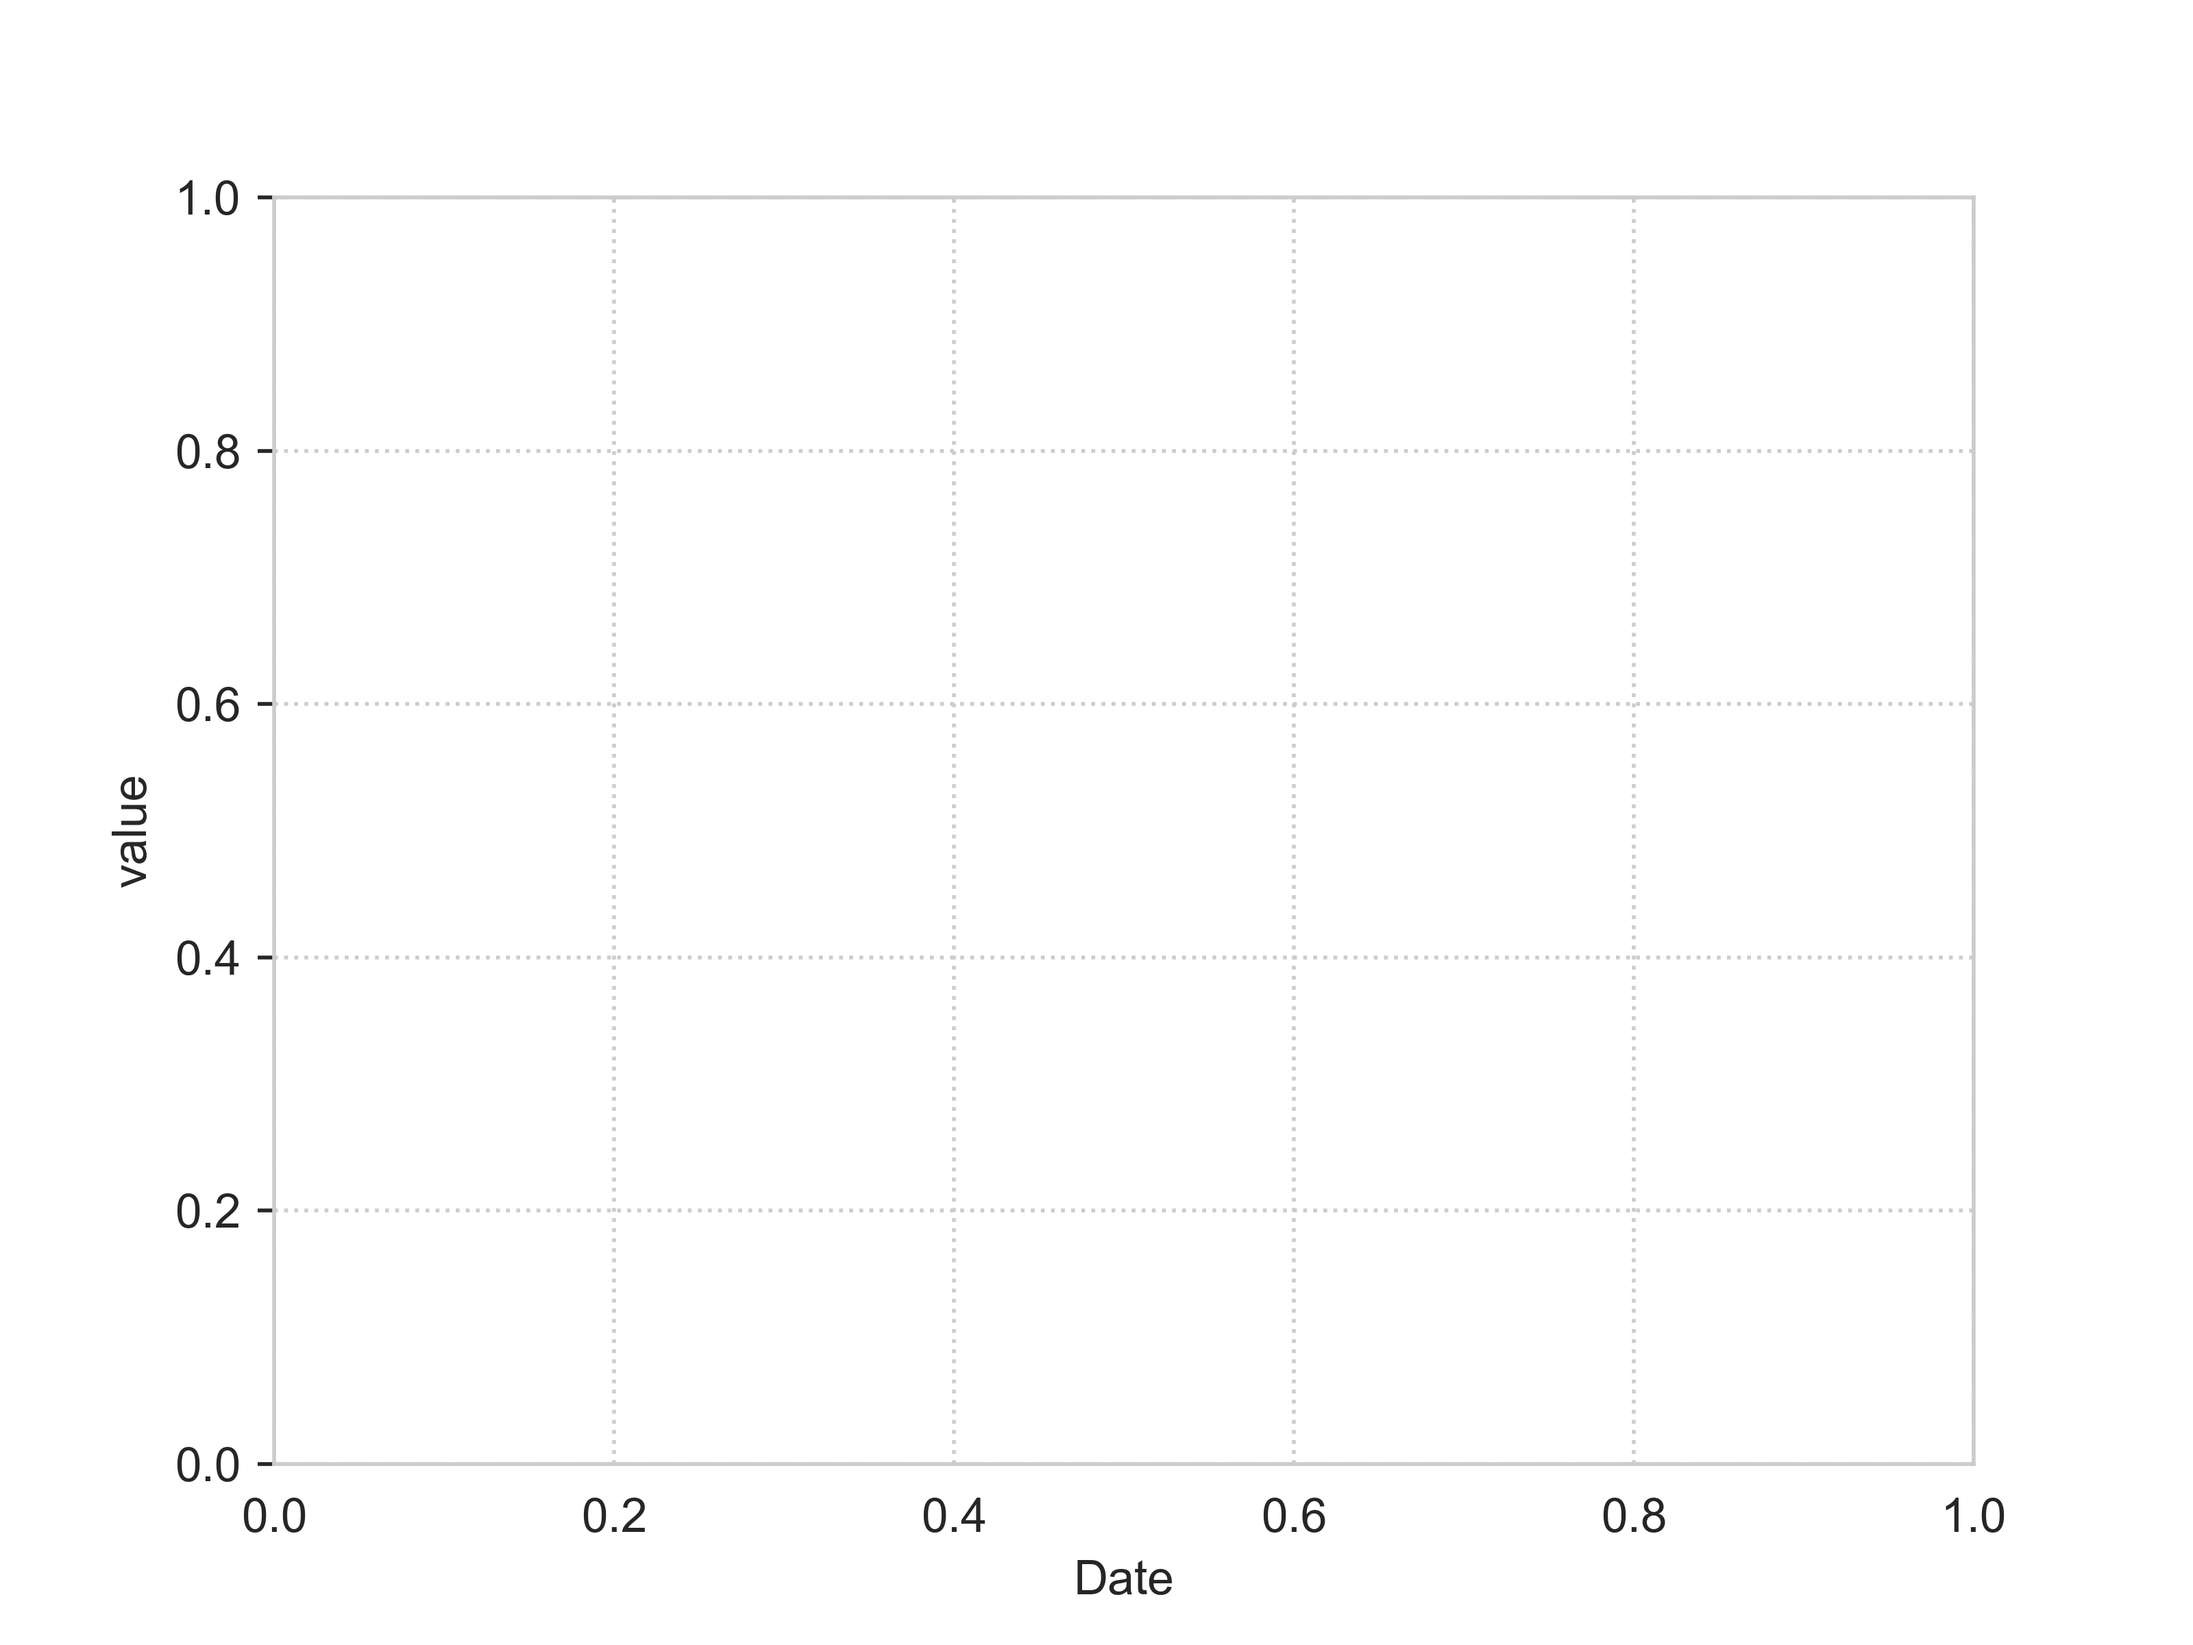
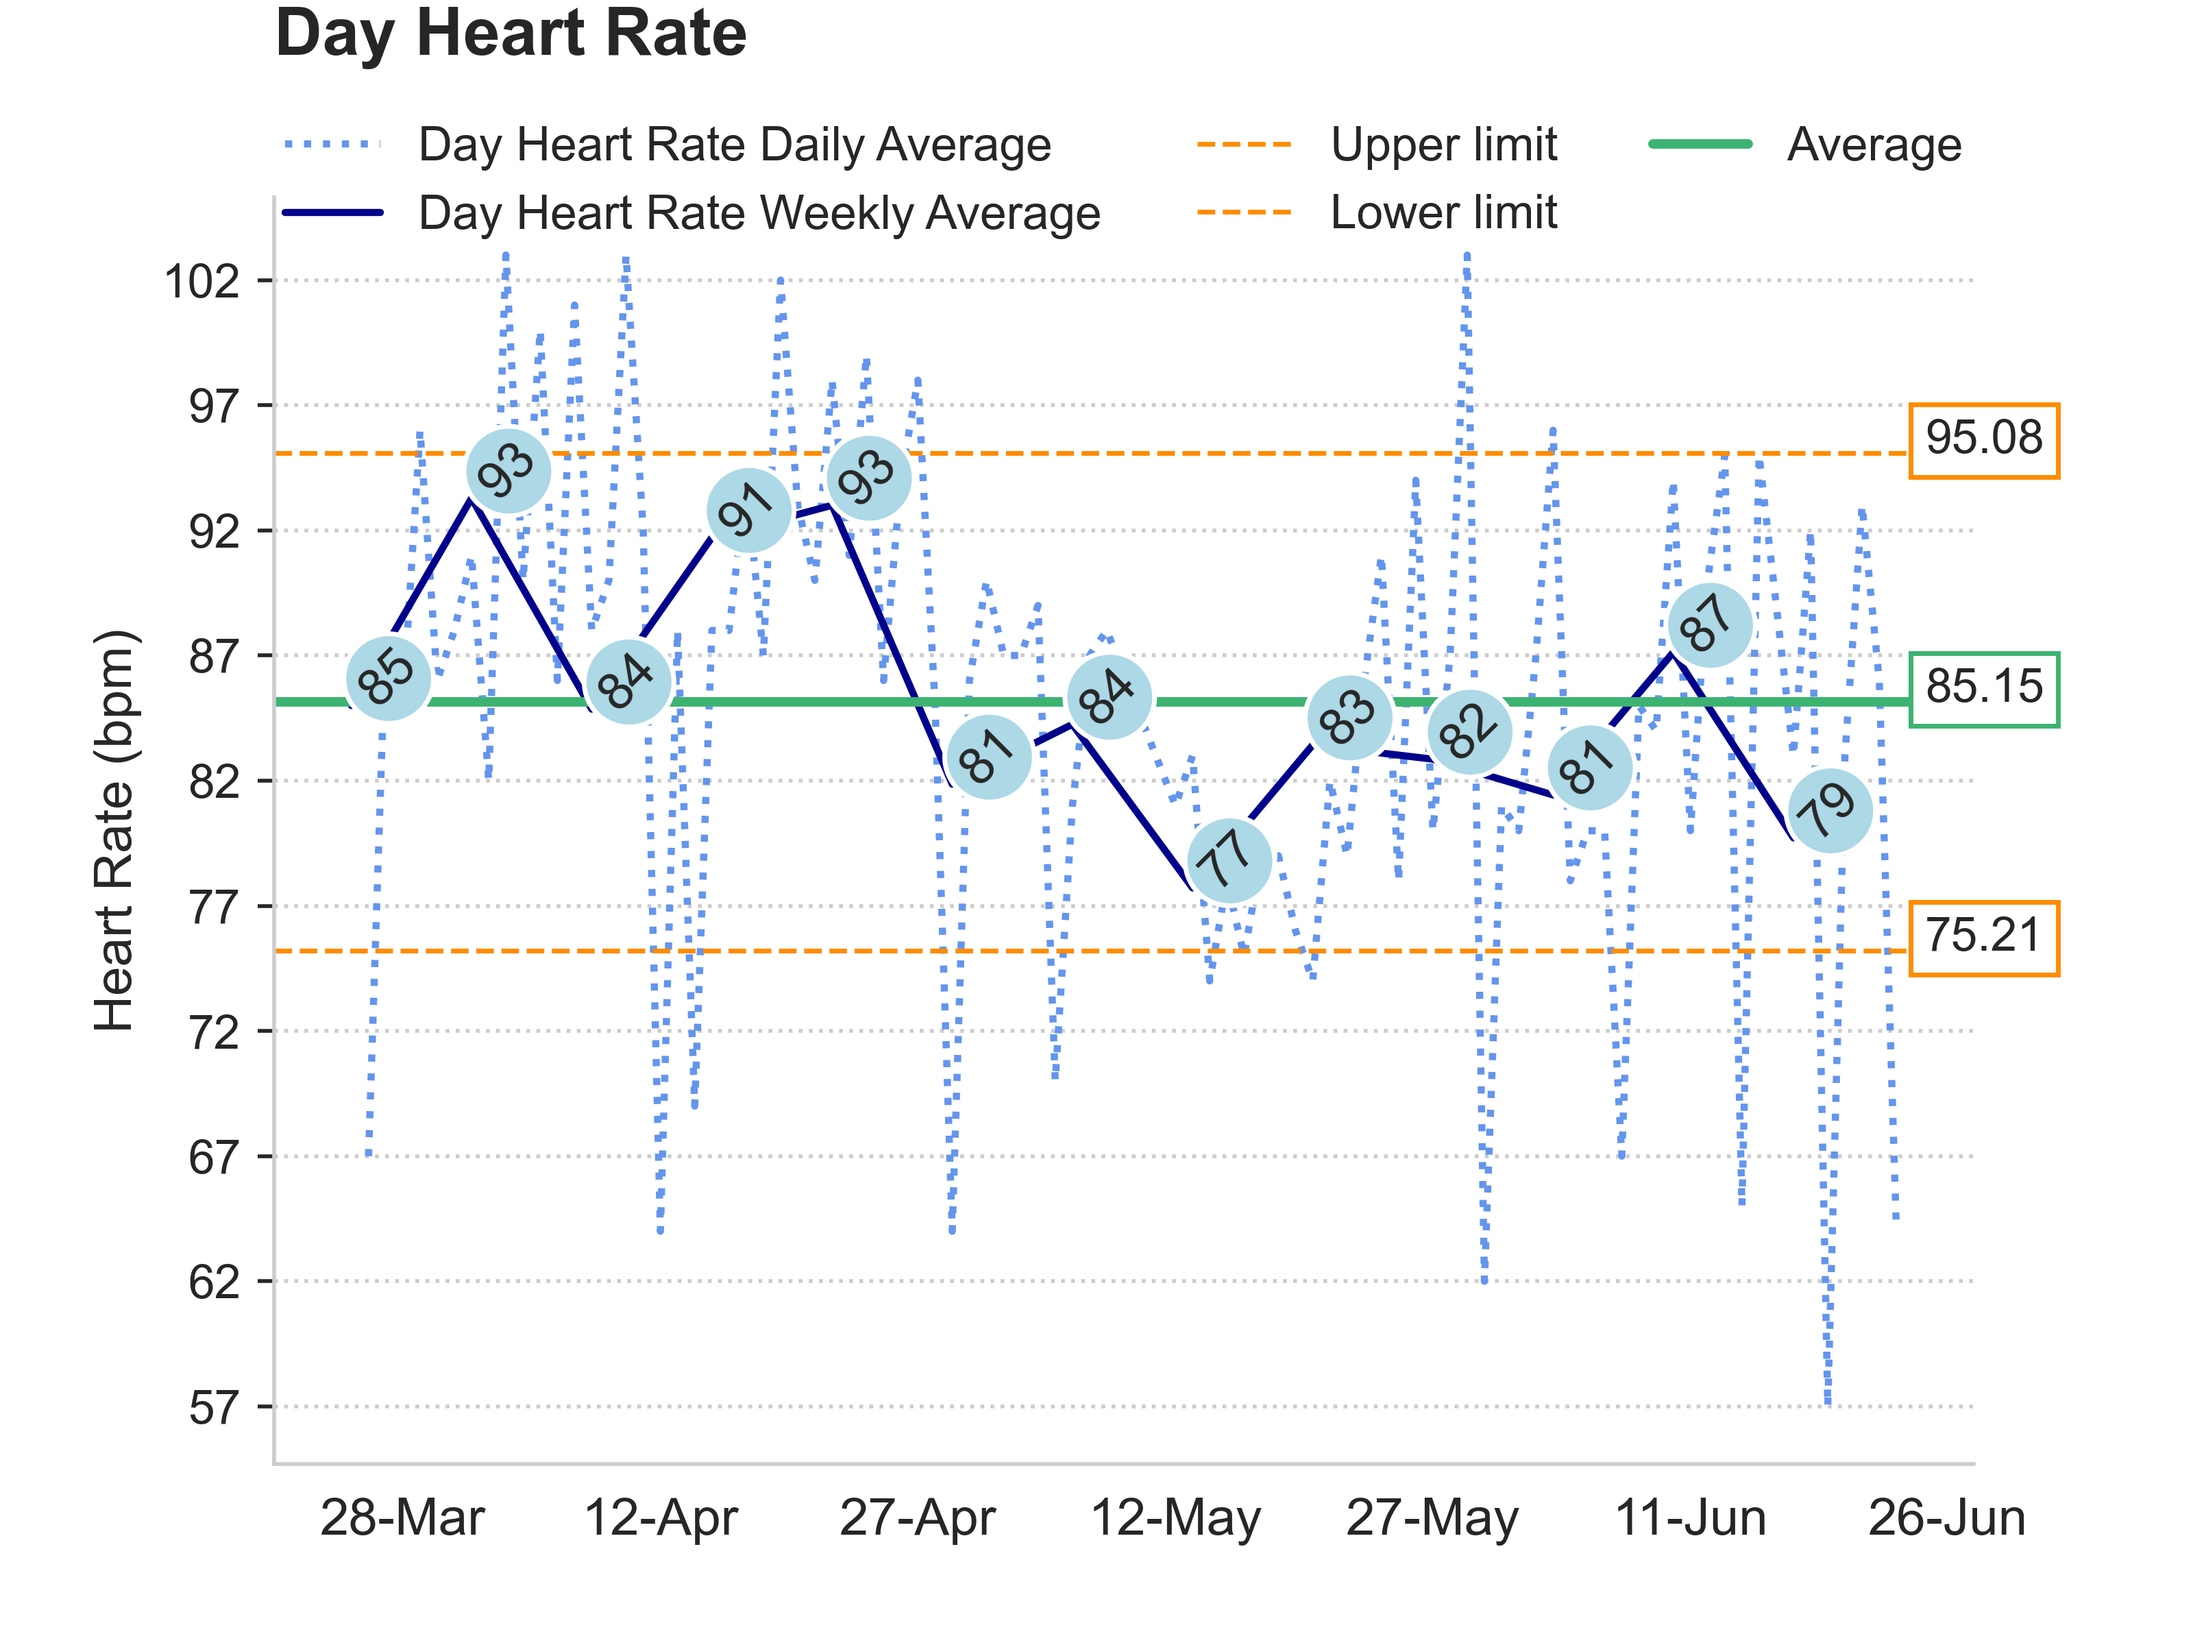
database api integration

diff --git a/Withings_ScanWatch/Resilient.py b/Withings_ScanWatch/Resilient.py
@@ -144,18 +144,18 @@ class Resilient(object):
                 reports_resilient.register_devices()
                 reports_resilient.devices_info()
                 reports_resilient.scale_data()
-                reports_resilient.sleep()
-                reports_resilient.sleep_daily()
+                #reports_resilient.sleep()
+                #reports_resilient.sleep_daily()
                 ###################################
-                #reports_resilient.intra_sleep_v2()
-                #reports_resilient.sleep_v2()
-                #reports_resilient.intra_activitydata_watch_v2()
-                #reports_resilient.activity_data_watch_v2()
-                #reports_resilient.plot_creatorV2()
-                #print(HOLA)
+                reports_resilient.intra_sleep_v2()
+                reports_resilient.sleep_v2()
+                reports_resilient.intra_activitydata_watch_v2()
+                reports_resilient.activity_data_watch_v2()
+                reports_resilient.plot_creatorV2()
+                print(HOLA)
                 ###########################################
-                reports_resilient.activity_data_watch()
-                reports_resilient.plot_creator()
+                #reports_resilient.activity_data_watch()
+                #reports_resilient.plot_creator()
                 #print(HOLA)
                 reports_resilient.db_filling()
                 reports_resilient.doc_generation()

diff --git a/Withings_ScanWatch/resources/Graph_generation.py b/Withings_ScanWatch/resources/Graph_generation.py
@@ -347,7 +347,7 @@ class Graph_generator(object):
 		#plt.close()
 
 		# Display the plot
-		#plt.show()
+		plt.show()
 
 
 	def plot_min_max_av(self,x_values,y_average,y_min,y_max,device,type_d):
@@ -436,7 +436,7 @@ class Graph_generator(object):
 		plt.savefig(device+"_"+type_d, dpi = 500)
 		plt.close()
 
-		#plt.show()
+		plt.show()
 
 	def plot_continous(self,date_weight, weight, date_muscle_mass, muscle_mass, date_bone_mass,
 							bone_mass, date_fat_mass, fat_mass, date_hydration, hydration, st_date, ed_date, device):
@@ -577,7 +577,7 @@ class Graph_generator(object):
 
 
 		plt.savefig(device, dpi = 500)
-		#plt.show()
+		plt.show()
 		plt.close()
 
 	def plot_bar(self,x,y):
@@ -681,7 +681,7 @@ class Graph_generator(object):
 		#plt.close()
 
 		# Display the plot
-		#plt.show()
+		plt.show()
 
 	def plot_stacked_bar(self,x,y,z,o):
 
@@ -776,7 +776,7 @@ class Graph_generator(object):
 		plt.savefig('sleep_summary', dpi = 500)
 
 		# Show the chart
-		#plt.show()
+		plt.show()
 
 
 	def plot_events(self,start_times, end_times, amplitudes):

diff --git a/Withings_ScanWatch/db/database_django.py b/Withings_ScanWatch/db/database_django.py
@@ -18,8 +18,7 @@ class Database_API(object):
         data = {
                 "username": user,
                 "role": role,
-                "password_hash": password_hash,
-                "active": True
+                "password_hash": password_hash
                 }
         
         response = requests.post(url, json = data)
@@ -50,7 +49,6 @@ class Database_API(object):
     def get_unique_id(self, id_user = None):
         
         url = 'http://127.0.0.1:8000/api/users/?username='+ str(id_user)
-        response = requests.get(url)
         
         # Checking the status code of the response
         if response.status_code == 200:

diff --git a/database_cvs_api.py b/database_cvs_api.py
@@ -505,8 +505,8 @@ db_csv.get_users()
 db_csv.upload_device_info()
 db_csv.get_device_info()
 #db_csv.upload_scale_summary_data()
-db_csv.upload_scanwatch_summary_data()
-#db_csv.upload_sleep_summary_data()
+#db_csv.upload_scanwatch_summary_data()
+db_csv.upload_sleep_summary_data()
 #db_csv.upload_intra_sleep_summary_data()
 #db_csv.upload_usage_data()
 db_csv.upload_intra_scanwatch_summary_data()
